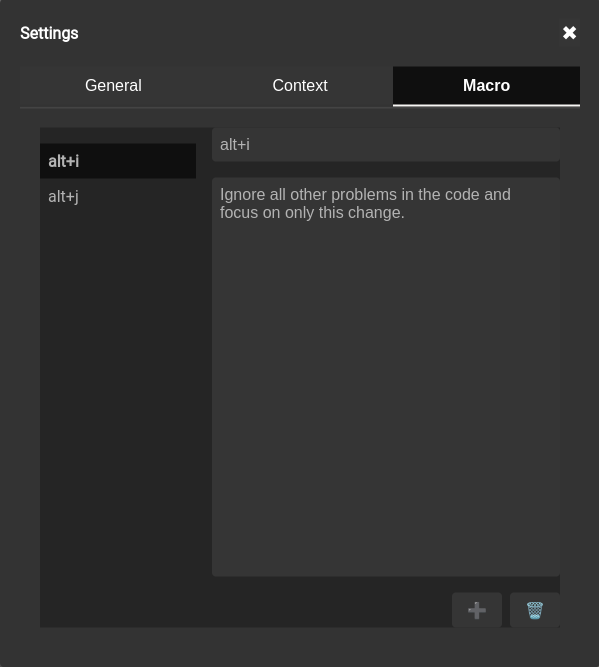
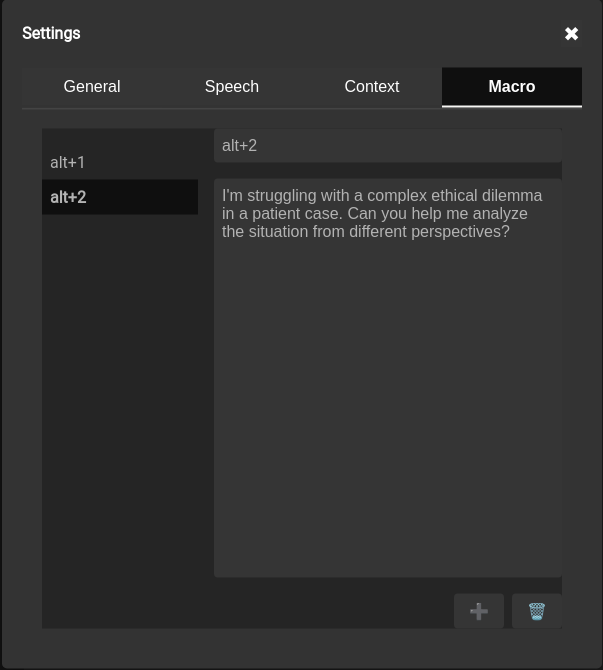
Add speech-to-text and text-to-speech functionality

diff --git a/README.md b/README.md
@@ -12,6 +12,7 @@ Pronounced "oom-DAH-lee"
 
 ![Screenshot of the uMdali chat application interface](ApplicationImage1.png)
 ![Screenshot of the uMdali settings for general](ApplicationSettingsGeneral.png)
+![Screenshot of the uMdali settings for general](ApplicationSettingsSpeech.png)
 ![Screenshot of the uMdali settings for context](ApplicationSettingsContext.png)
 ![Screenshot of the uMdali settings for macros](ApplicationSettingsMacro.png)
 
@@ -49,6 +50,9 @@ uMdali offers a broad range of features designed to enhance the user experience 
 
 - **Speech to Text for Voice Input**
   - Incorporates speech-to-text functionality, allowing for voice input into chats.
+
+- **Text to Speech for Voice Output**
+  - Incorporates text-to-speech functionality, allowing for voice output in chats.
 
 - **Multi-Lingual Support**
   - Supports multiple languages, enabling seamless interaction for users from various linguistic backgrounds.
